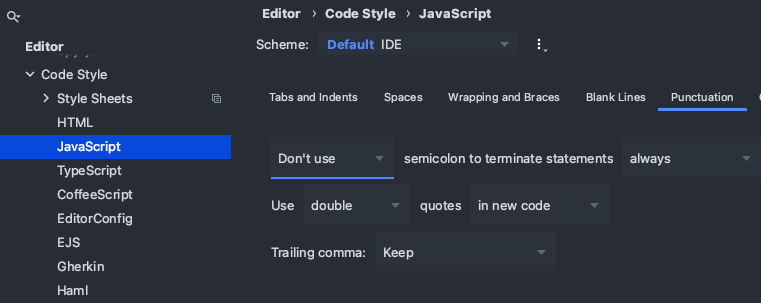
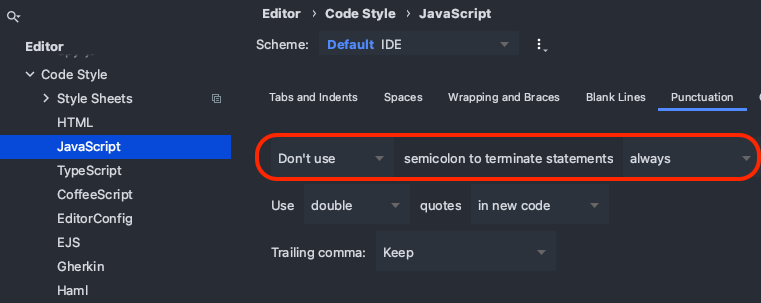
Added lesson and webstorm settings

Changed region(s): [[0.3325, 0.4158, 1.0, 0.6238]]

diff --git a/week2/hands-on/js/main.js b/week2/hands-on/js/main.js
@@ -1,0 +1,47 @@
+let a = 4
+let b = a * 2
+let c = 10
+let lessonComplete = false
+const artist = "Babymetal"
+
+console.log(`Hello world`)
+console.log(artist)
+console.log(`Artist name ${artist}`)
+
+if(a > b && a < c) {
+    console.log("A is groter dan B en kleiner dan C")
+} 
+if(lessonComplete) {
+    console.log("De les is afgelopen")
+} else {
+    console.log("De les is nog niet afgelopen")
+}
+if(artist === "Babymetal") {
+    console.log("Sugooiiiiii")
+}
+if (artist !== "Babymetal") {
+    console.log("Boring!")
+}
+
+let tracks = ["Chocolate", "Karate", "Catch me if you can"]
+console.log(`Er zijn ${tracks.length} tracks`)
+console.log(`Track 1 is ${tracks[0]}`)
+
+
+
+for(let i = 0; i < tracks.length; i++) {
+    console.log(tracks[i])
+}
+
+function logArtist() {
+    console.log(artist)
+}
+
+logArtist()
+
+function logTrack(trackNumber){
+    console.log(tracks[trackNumber])
+}
+
+logTrack(0)
+logTrack(1)

diff --git a/week2/hands-on/index.html b/week2/hands-on/index.html
@@ -1,0 +1,14 @@
+<!doctype html>
+<html lang="en">
+<head>
+    <meta charset="UTF-8">
+    <meta name="viewport"
+          content="width=device-width, user-scalable=no, initial-scale=1.0, maximum-scale=1.0, minimum-scale=1.0">
+    <meta http-equiv="X-UA-Compatible" content="ie=edge">
+    <title>Hands-on week 2</title>
+    <link rel="stylesheet" href="./css/style.css">
+</head>
+<body>
+    <script src="./js/main.js"></script>
+</body>
+</html>

diff --git a/week2/hands-on/css/style.css b/week2/hands-on/css/style.css
@@ -1,0 +1,4 @@
+body {
+    margin:0; padding:0;
+    font-family: sans-serif;
+}

diff --git a/week2/hands-on/settings.md b/week2/hands-on/settings.md
@@ -1,0 +1,103 @@
+# Setup
+
+- Project klaarzetten in localhost
+- Webstorm layout (optioneel)
+
+<br>
+<br>
+
+
+# Localhost
+
+Maak een nieuw `index.html` bestand en open het in webstorm. Typ `!` + TAB. Je krijgt nu automatisch een leeg default html bestand.
+
+## XAMPP
+
+Start XAMPP en plaats je project in de `htdocs` folder. Je kan nu je `index.html` bekijken door je project te openen in ***Localhost***. Je url is dan bijvoobeeld:
+
+```
+http://localhost/prg03/test/index.html
+```
+
+⚠ Let op! Open je project nooit via `file://c:/mijn documenten/index.html`!
+
+## Webstorm Live Reload
+
+In webstorm kan je een ***quick preview*** openen met de browser buttons rechtsbovenin beeld.
+
+![quick](./images/quick.png)
+
+De url ziet er dan zo uit. Dit werkt alleen zo lang webstorm open staat.
+
+```
+http://localhost:8000/
+```
+
+Maak een nieuw `style.css` en `script.js` bestand en laad deze in je html:
+
+```html
+<head>
+    <link rel="stylesheet" href="./css/style.css">
+</head>
+<body>
+    <script src="./js/script.js"></script>
+</body>
+```
+🤯 Webstorm update automatisch je HTML en CSS in het localhost adres. Dit is handig tijdens development. 
+
+[Als je ***javascript*** ook automatisch wil updaten kan je dat aanzetten via settings.](https://www.jetbrains.com/help/webstorm/live-editing.html)
+
+## Browser console
+
+Klik met rechts in het browservenster en kies **inspect**. Open de console tab. 
+
+---
+<br>
+<br>
+<br>
+<br>
+
+# Webstorm settings
+
+🖖 Deze instellingen zijn optioneel! Kijk zelf wat je een prettige manier vindt om in je code editor te werken.
+
+### Disable function parameter hints 
+
+![disable](./images/disable.png)
+
+### Zoom met muiswiel
+
+![zoom](./images/mouse.png)
+
+### Javascript live update
+
+- [live update settings](https://www.jetbrains.com/help/webstorm/live-editing.html)
+
+### Code font ligatures
+
+![ligatures](./images/ligatures.png)
+
+### Wel of geen puntkomma aan het einde van een regel
+
+![semicolon](./images/semicolon.png)
+
+### Cleaner code view
+
+- Toon ***Project Files*** in plaats van ***Project***
+- Verberg vensters die je niet gebruikt onder ***View > Appearance***
+
+![projectfiles](./images/projectfiles.png)
+
+![cleanview](./images/cleanview.png)
+
+### Weg met die verticale lijn
+
+![vertical](./images/verticalline.png)
+
+## Material UI theme
+
+Installeer de Google Material UI theme via Settings > Plugins
+
+![material](./images/material.png)
+
+https://plugins.jetbrains.com/plugin/8006-material-theme-ui

diff --git a/week2/hands-on/readme.md b/week2/hands-on/readme.md
@@ -1,0 +1,84 @@
+# Week 2 : Herhaling Javascript Basics
+
+We gaan kijken naar de javascript principes uit Programmeren 1. 
+
+- [Project klaar zetten in Webstorm en openen in localhost](./settings.md)
+
+<br>
+<br>
+<br>
+
+# Javascript
+
+## Variabelen en data types
+
+```javascript
+let a = 4
+let b = a * 2
+let c = 10
+let lessonComplete = false
+const artist = "Babymetal"
+```
+Gebruik **string templates** met backtick en `${}` om variabelen en strings te combineren.
+
+
+```javascript
+console.log(`Hello world`)
+console.log(artist)
+console.log(`Artist name ${artist}`)
+```
+## IF statements
+
+```javascript
+if(a > b && a < c) {
+    console.log("A is groter dan B en kleiner dan C")
+} 
+if(lessonComplete) {
+    console.log("De les is afgelopen")
+} else {
+    console.log("De les is nog niet afgelopen")
+}
+if(artist == "Babymetal" || artist == "Bridear") {
+    console.log("Sugooiiiiii")
+}
+if (artist != "Babymetal") {
+    console.log("Boring!")
+}
+```
+## Arrays
+```javascript
+let tracks = ["Chocolate", "Karate", "Catch me if you can"]
+console.log(`Er zijn ${tracks.length} tracks`)
+console.log(`Track 1 is ${tracks[0]}`)
+
+tracks.push("Yabai")
+tracks[1] = "Sugoi"
+```
+
+## FOR Loops
+
+```javascript
+for(let i = 0; i < tracks.length; i++) {
+    console.log(tracks[i])
+}
+```
+
+## Functions
+
+```javascript
+function logArtist() {
+    console.log(artist)
+}
+
+logArtist()
+
+function logTrack(tracknumber){
+    console.log(tracks[tracknumber])
+}
+
+logTrack(0)
+logTrack(1)
+```
+
+<br>
+<br>

diff --git a/week2/README.md b/week2/README.md
@@ -1,8 +1,13 @@
 # PRG03 Week 2
 
-- Maak de opdrachten uit de map "Functions & Objects" & "DOM" in de JetBrains EDU cursus in WebStorm als voorbereiding
-  op de volgende les.
-- Maak **Opdracht 2** uit het assignment uit de [Hoofdopdracht](../assignment)
-- Bij behoefte aan extra oefeningen, volg de volgende courses:
-    - [HTML, CSS, and JavaScript: The Big Picture](https://www.pluralsight.com/courses/html-css-javascript-big-picture)
-    - [Javascript getting started](https://www.pluralsight.com/courses/javascript-getting-started)
+- [Bekijk het resultaat van de 'hands-on' oefening uit de les van week 2](./hands-on/). Heb je deze basics onder de knie?
+- Maak de opdrachten uit de map ***Functions & Objects*** & ***DOM*** in de JetBrains EDU cursus in WebStorm als voorbereiding
+  op de les van week 3.
+- Maak ***Opdracht 2*** uit het assignment uit de [Hoofdopdracht](../assignment)
+
+## Extra oefeningen
+
+Dit kan je volgen om meer te leren over javascript.
+
+- [HTML, CSS, and JavaScript: The Big Picture](https://www.pluralsight.com/courses/html-css-javascript-big-picture)
+- [Javascript getting started](https://www.pluralsight.com/courses/javascript-getting-started)
